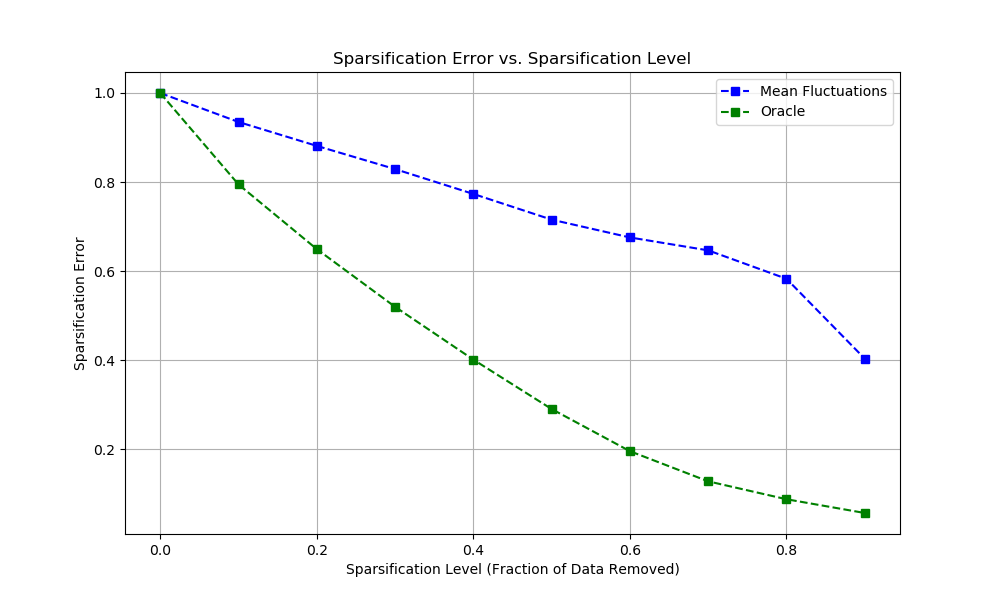
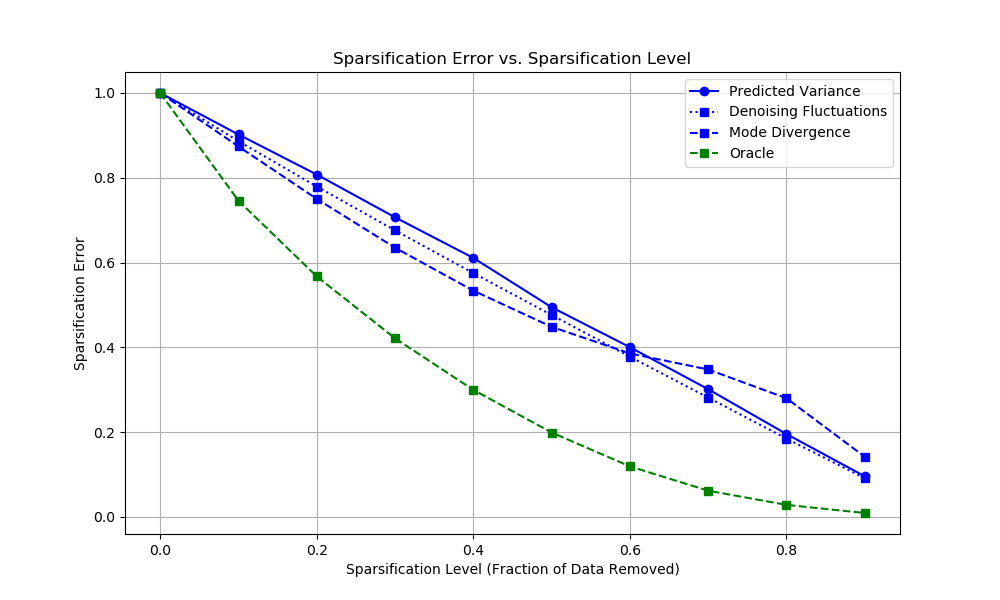
sparsification plots debug

diff --git a/diffusion/gaussian_diffusion.py b/diffusion/gaussian_diffusion.py
@@ -707,37 +707,43 @@ class GaussianDiffusion:
             if dump_steps is not None and i in dump_steps:
                 dump.append(deepcopy(sample["sample"]))
             final = sample
-            if i >= 30 and i % 2 == 0:  # Track every 5th step from 20 to 45, and all steps from 45 onwards
-                means.append(sample["sample"].detach().cpu())
+            # if i >= 30 and i % 2 == 0: # track the mean of the last 20 steps of every 2nd diffusion step from 30 to 50
+            means.append(sample["sample"].detach().cpu())
         if dump_steps is not None:
             return dump
         if self.model_var_type in [ModelVarType.LEARNED, ModelVarType.LEARNED_RANGE]:
             means = torch.stack(means, dim=0)  # Shape: [10, bs, 263, 1, 196]
+            # num_samples = means.shape[0]
 
             # # Plot mean evolution
-            # means = means.cpu().permute(0, 1, 3, 4, 2).float() # [50, bs, 1, 196, 263]
-            # means = means[..., 4:(22 - 1) * 3 + 4] # [50, bs, 1, 196, 63]
-            # means = means.view(means.shape[:-1] + (-1, 3)) # [50, bs, 1, 196, 21, 3]
-            # means = means.view(50, -1, *means.shape[3:]).permute(0, 1, 3, 4, 2) # [50, bs, 21, 3, 196]
-            # means = means.mean(dim=3) # [50, bs, 21, 196]
-
-            # # Select last 20 steps and only even steps
-            # means = means[-20::2]
+            # means = means.cpu().permute(0, 1, 3, 4, 2).float() # [diffusion_steps, num_samples, 1, 196, 263]
+            # means = means[..., 4:(22 - 1) * 3 + 4] # [diffusion_steps, num_samples, 1, 196, 63]
+            # means = means.view(means.shape[:-1] + (-1, 3)) # [diffusion_steps, num_samples, 1, 196, 21, 3]
+            # means = means.squeeze(2).permute(0, 1, 3, 4, 2) # [diffusion_steps, num_samples, 21, 3, 196]
+            # means = means[:, :, :, 0, :] # [diffusion_steps, num_samples, 21, 196]
 
             # plt.figure(figsize=(16, 12))
-            # selected_joints = [0, 10, 11, 12, 20]
-            # frames = [24, 49, 74, 99]  # Frames 25, 50, 75, 100 (0-indexed)
+            # selected_joints = [9, 10, 11, 19, 20]
+            # joint_names = {
+            #     9: 'left foot',
+            #     10: 'right foot',
+            #     11: 'head',
+            #     19: 'left hand',
+            #     20: 'right hand'
+            # }
+            # # frames = [24, 49, 74, 99]  # Frames 25, 50, 75, 100 (0-indexed)
+            # frames = [24]
             
             # for i, frame in enumerate(frames):
             #     plt.subplot(2, 2, i+1)
             #     means_frame = means[:, 0, :, frame]  # Shape: [10, 21]
                 
             #     for joint in selected_joints:
-            #         plt.plot(range(30, 50, 2), means_frame[:, joint], label=f'Joint {joint}')
+            #         plt.plot(range(0, 50), means_frame[:, joint], label=joint_names[joint])
                 
-            #     plt.xlabel('Diffusion Steps (30 to 50, even steps)')
-            #     plt.ylabel('Mean Value')
-            #     plt.title(f'Evolution of Mean Values for Selected Joints at Frame {frame+1}')
+            #     plt.xlabel('Diffusion Steps')
+            #     plt.ylabel('x joint coordinate value (m)')
+            #     plt.title(f'Evolution of x coordinate for Selected Joints at Frame 100')
             #     plt.legend()
             
             # plt.tight_layout()

diff --git a/eval/eval_ause.py b/eval/eval_ause.py
@@ -59,7 +59,7 @@ def main():
 
     # nb_samples_longer_than_three_seconds = 4328
     nb_samples_longer_than_three_seconds = 4288
-    nb_samples_longer_than_three_seconds = 320
+    # nb_samples_longer_than_three_seconds = 320
     start_index = total_samples - nb_samples_longer_than_three_seconds
     subset_indices = list(range(start_index, total_samples))
     subset_dataset = torch.utils.data.Subset(data.dataset, subset_indices)
@@ -202,8 +202,8 @@ def main():
                     print(f'Batch {idx} - Repetition {rep_i} - Time {times_ms[t_idx]}s - MPJPE: {mpjpe_at_time*1000:.4f}')
 
             if args.learning_var:
-                uncertainty_factor_ause = uncertainty_factor.squeeze(1)
-                uncertainty_factor1_ause = uncertainty_factor_1.squeeze(1)
+                uncertainty_factor_ause = uncertainty_factor.squeeze(1) # [bs, 22, 196]
+                uncertainty_factor1_ause = uncertainty_factor_1.squeeze(1) # [bs, 1, 196, 22]
                 sparsification_errors_lg, oracle, sparsification_levels_lg = calculate_ause(per_joint_errors, uncertainty_factor_ause, model_kwargs['y']['lengths'])
                 sparsification_errors_mf, oracle, sparsification_levels_mf = calculate_ause(per_joint_errors, uncertainty_factor1_ause, model_kwargs['y']['lengths'])
 

diff --git a/diffusion/losses.py b/diffusion/losses.py
@@ -10,7 +10,7 @@ import torch as th
 
 def calculate_ause(per_joint_errors, uncertainty_factor, lengths, n_bins=10):
     """
-    Compute the Area Under Sparsification Error (AUSE) to assess the quality of the uncertainty factors.
+    Compute the Sparsification Error to assess the quality of the uncertainty factors.
 
     :param per_joint_errors: Tensor of per-joint errors. Shape: [bs, 196*22]
     :param uncertainty_factor: Tensor of uncertainty factors. Shape: # [bs, 196, 22]
